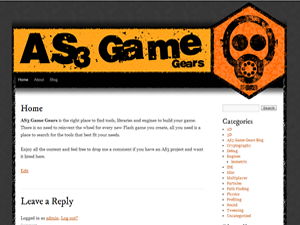
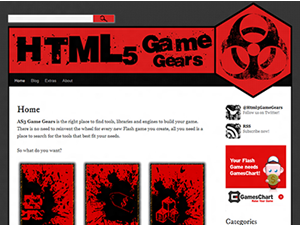
Adjusting Wordpress theme meta data.

diff --git a/themes/html5gamegears/style.css b/themes/html5gamegears/style.css
@@ -1,9 +1,9 @@
 /*
-Theme Name: AS3GameGears
-Theme URI: https://as3gamegears.com
-Description: Theme powering the site AS3GameGears.com. The theme is based on Wordpress Twenty Ten theme (thanks!).
+Theme Name: Html5GameGears
+Theme URI: https://html5gamegears.com
+Description: Theme powering the site Html5GameGears.com. The theme is based on Wordpress Twenty Ten theme (thanks!).
 Author: Fernando Bevilacqua <dovyski@gmail.com>
-Version: 1.8
+Version: 1.0
 Tags: black, two-columns, fixed-width, threaded-comments, sticky-post, translation-ready, microformats, rtl-language-support, editor-style
 */
 
